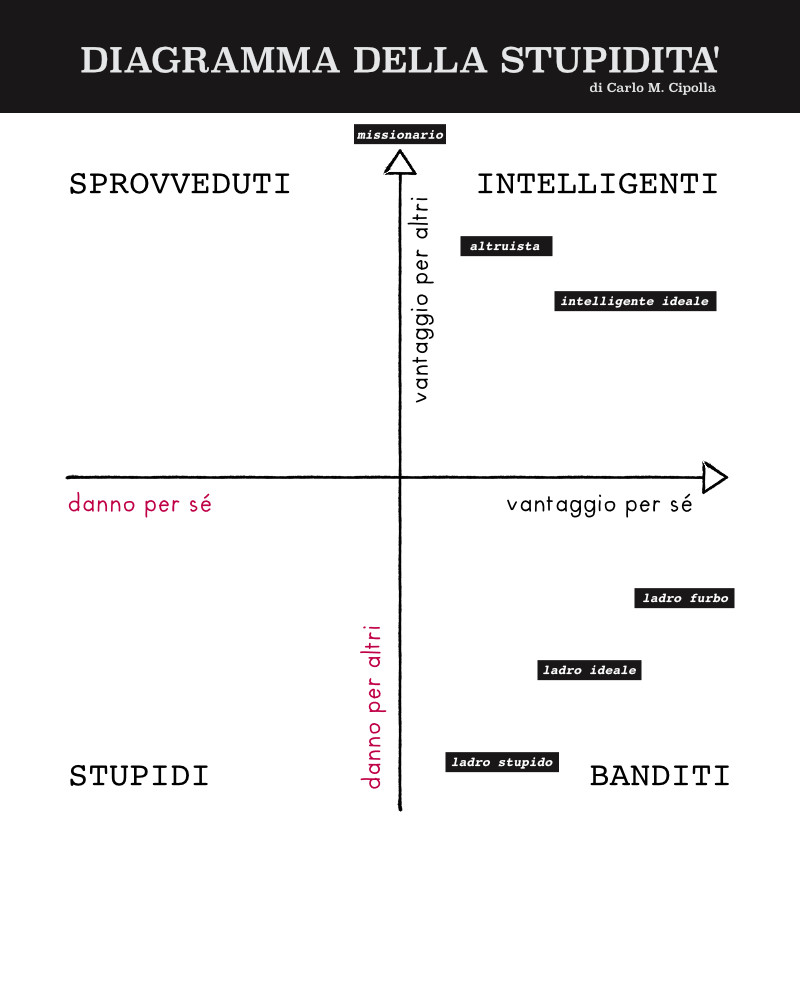
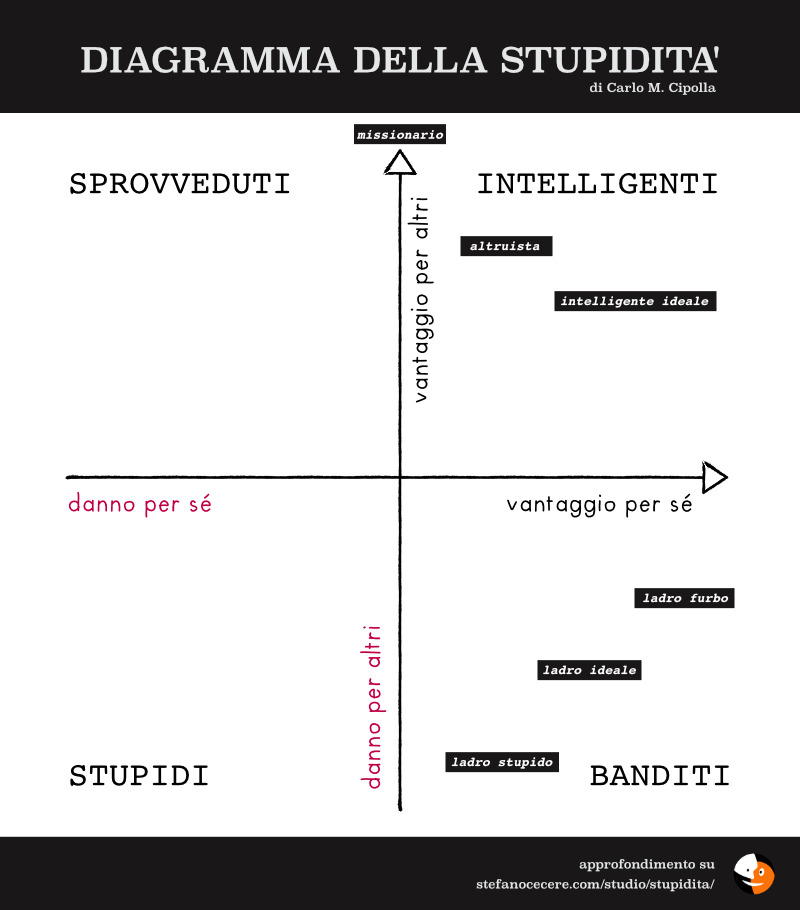
stupidità

diff --git a/content/studio/stupidita/index.md b/content/studio/stupidita/index.md
@@ -22,6 +22,18 @@ menu:
     weight: 1
 ---
 
+Non so voi, ma anelo molto alla ricerca dell'Intelligenza in tutte le sue forme.
+Per questo inizio sempre tutte le mie lezioni e workshop con un accenno al Diagramma della Stupidità, tratto da quel piccolo ma intenso capolavoro che è "Allegro ma Non Troppo" scritto nel 1988 da [Carlo Cipolla](https://it.wikipedia.org/wiki/Carlo_M._Cipolla).
+
+In pratica: stupido è non tanto chi lo stupido fa, ma chi con le proprie azioni arreca danno tanto agli altri quanto a sé stesso.
+
+Intelligente è invece chi procura beneficio sia agli altri che a sé stesso.
+
+E' una definizione abbastanza particolare di intelligenza..che esclude i geni del male ("banditi") ed incorpora una certa morale ed etica, uno sguardo verso l'altro e il futuro, ed è particolarmente facile e divertente da ricordare.
+
+Credo sia molto interessante meditare su questo schema, sopratutto per chi aspira a posizionarsi nel quadrante superiore (portare beneficio agli altri) e cercando di evitare di diventare sprovveduti. ai ragazzi piace molto.
+
+
 ## Prima Legge
 **Sempre e inevitabilmente ognuno di noi sottovaluta il numero degli individui stupidi in circolazione:**
 

diff --git a/content/Non so voi, ma anelo molto alla ricerca dell'Intelligenza in.md b/content/Non so voi, ma anelo molto alla ricerca dell'Intelligenza in.md
@@ -1,0 +1,12 @@
+Non so voi, ma anelo molto alla ricerca dell'Intelligenza in tutte le sue forme.
+Per questo inizio sempre tutte le mie lezioni e workshop con un accenno al Diagramma della Stupidità, tratto da quel piccolo ma intenso capolavoro che è "Allegro ma Non Troppo" scritto nel 1988 da Carlo Cipolla.
+
+In pratica: stupido è non tanto chi lo stupido fa, ma chi con le proprie azioni arreca danno tanto agli altri quanto a sé stesso.
+
+Intelligente è invece chi procura beneficio sia agli altri che a sé stesso.
+
+E' una definizione abbastanza particolare di intelligenza..che esclude i geni del male ("banditi") ed incorpora una certa morale ed etica, uno sguardo verso l'altro e il futuro, ed è particolarmente facile e divertente da ricordare.
+
+Credo sia molto interessante meditare su questo schema, sopratutto per chi aspira a posizionarsi nel quadrante superiore (portare beneficio agli altri) e cercando di evitare di diventare sprovveduti. ai ragazzi piace molto.
+
+Ho iniziato uno studio approfondito, con consigli su come evitare di fare troppo gli stupidi, nel mio sito
